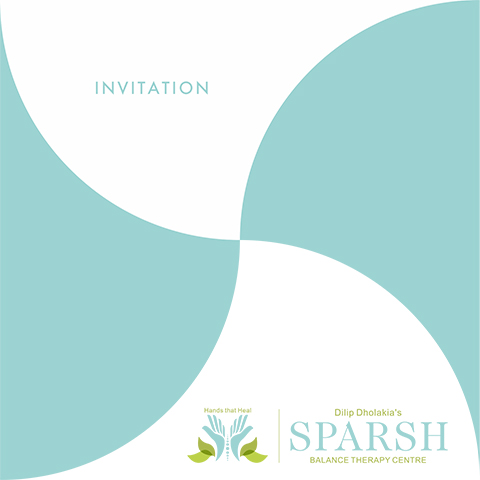
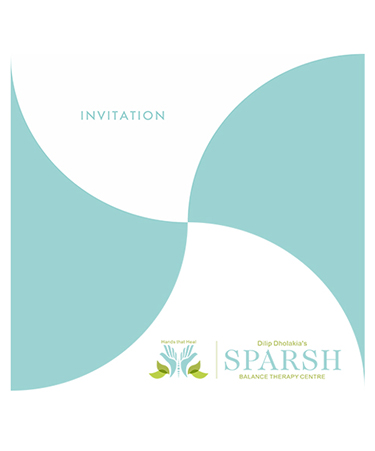
Portfolio page edited

diff --git a/resources/views/web/portfolio.blade.php b/resources/views/web/portfolio.blade.php
@@ -3,6 +3,16 @@
 @section('title', 'Portfolio')
 
 @push('head')
+<style type="text/css">
+    .ms_portfolio_inner .ms_p_item img {
+        width: 97%;
+    }
+
+    .ms_p_item img {
+        border: 2px solid #7e8d9c;
+        margin: 6px 0;
+    }
+</style>
 @endpush
 
 @section('content')
@@ -23,6 +33,7 @@
             <div class="container">
                 <div class="portfolio_filter">
                     <ul>
+                        <li class="active" data-filter=".all"><a href="#">All </a></li>
                         <li data-filter=".film"><a href="#">Film & OTT Platform </a></li>
                         <li data-filter=".brand"><a href="#">Brand identity</a></li>
                         <li data-filter=".web"><a href="#">Web Solution </a></li>
@@ -32,47 +43,57 @@
             </div>
             <div class="ms_portfolio_inner">
                 <!--  Brand  -->
-                <div class="ms_p_item wd_25 brand">
-                    <img src="{{ asset('image/portfolio/brand/aditya-ent_logo.jpg')}}" alt="">
-                </div>
-                <div class="ms_p_item wd_25 brand">
-                    <img src="{{ asset('image/portfolio/brand/BROCHURE.jpg')}}" alt="">
-                </div>
-                <div class="ms_p_item wd_50 brand">
-                    <img src="{{ asset('image/portfolio/brand/Genius-Brochure.jpg')}}" alt="">
-                </div>
-                <div class="ms_p_item wd_25 brand">
+                <div class="ms_p_item wd_25 brand all">
                     <img src="{{ asset('image/portfolio/brand/InvitationCard.jpg')}}" alt="">
                 </div>
-                <div class="ms_p_item wd_25 brand">
-                    <img src="{{ asset('image/portfolio/brand/gipl_logo.jpg')}}" alt="">
+                <div class="ms_p_item wd_25 brand all corporate">
+                    <img src="{{ asset('image/portfolio/brand/BROCHURE.jpg')}}" alt="">
                 </div>
-                <div class="ms_p_item wd_25 brand">
-                    <img src="{{ asset('image/portfolio/brand/Infinity Hunt cover.jpg')}}" alt="">
+                <div class="ms_p_item wd_50 brand all">
+                    <img src="{{ asset('image/portfolio/brand/Genius-Brochure.jpg')}}" alt="">
                 </div>
-                <div class="ms_p_item wd_50 brand">
+                <div class="ms_p_item wd_50 brand all">
                     <img src="{{ asset('image/portfolio/brand/genius-kids-brochure.jpg')}}" alt="">
                 </div>
-                <div class="ms_p_item wd_25 brand">
+                <div class="ms_p_item wd_25 brand all corporate">
+                    <img src="{{ asset('image/portfolio/brand/gipl_logo.jpg')}}" alt="">
+                </div>
+                <div class="ms_p_item wd_25 brand all corporate">
+                    <img src="{{ asset('image/portfolio/brand/aditya ent_logo.jpg')}}" alt="">
+                </div>
+                <div class="ms_p_item wd_25 brand all corporate">
+                    <img src="{{ asset('image/portfolio/brand/Infinity Hunt cover.jpg')}}" alt="">
+                </div>
+                <div class="ms_p_item wd_25 brand all">
                     <img src="{{ asset('image/portfolio/brand/KHUSHI DESIGN.jpg')}}" alt="">
                 </div>
-                <div class="ms_p_item wd_25 brand">
+                <div class="ms_p_item wd_25 brand all corporate">
                     <img src="{{ asset('image/portfolio/brand/Uttam Logo.jpg')}}" alt="">
                 </div>
-                <div class="ms_p_item wd_25 brand">
+                <div class="ms_p_item wd_25 brand all">
                     <img src="{{ asset('image/portfolio/brand/vcard.jpg')}}" alt="">
                 </div>
 
                 <!--  Film  -->
-                <div class="ms_p_item wd_25 film">
+                <div class="ms_p_item wd_50 film all">
                     <img src="{{ asset('image/portfolio/film/101.jpg')}}" alt="">
                 </div>
-                <div class="ms_p_item wd_50 film">
+                <div class="ms_p_item wd_25 film all">
                     <img src="{{ asset('image/portfolio/film/102.jpg')}}" alt="">
                 </div>
-                <div class="ms_p_item wd_25 film">
+                <div class="ms_p_item wd_50 film all">
                     <img src="{{ asset('image/portfolio/film/103.jpg')}}" alt="">
                 </div>
+
+                <!--  Film  -->
+                <div class="ms_p_item wd_25 web all">
+                    <img src="{{ asset('image/portfolio/web/adity-entr.jpg')}}" alt="">
+                </div> 
+
+                <!--  Blank  -->
+                <div class="ms_p_item wd_25 brand corporate web all">
+                    <img src="{{ asset('image/portfolio/blank.jpg')}}" alt="">
+                </div>               
             </div>
         </section>
         <!--================End Portfolio Area =================-->
